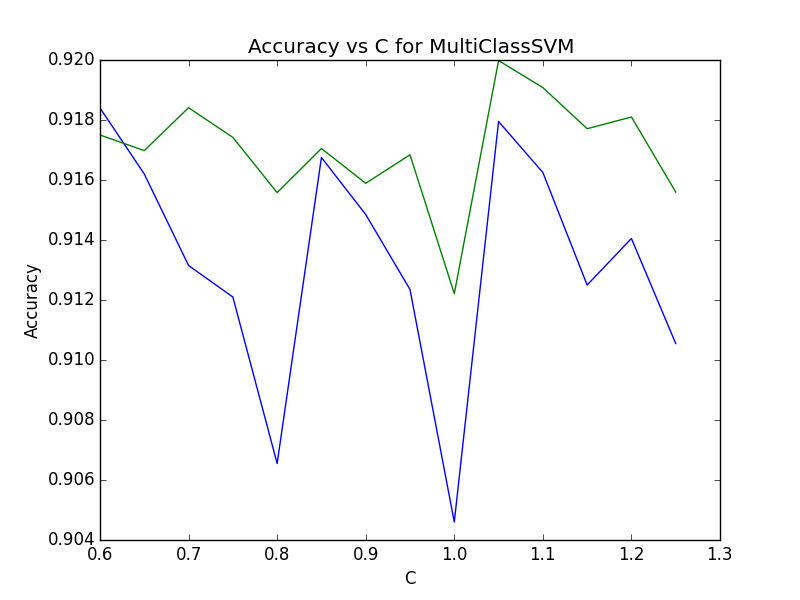
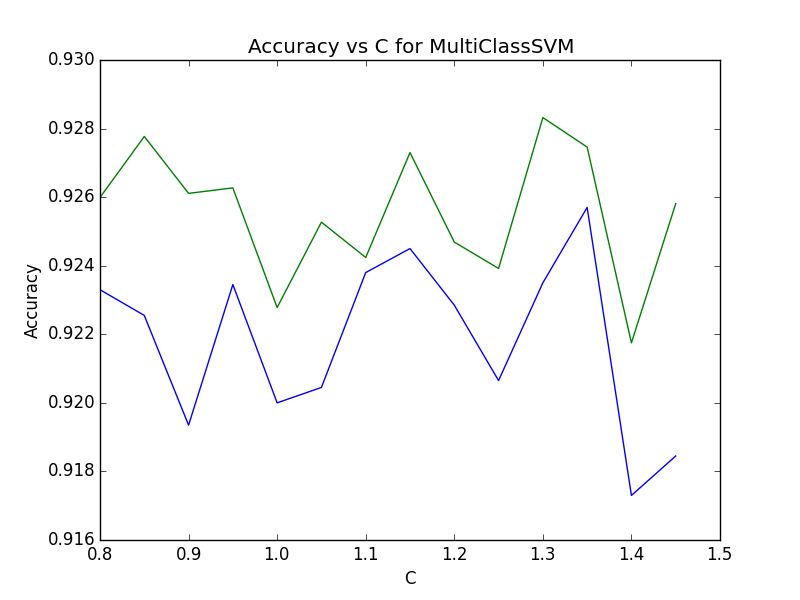
finish q7 graphs

diff --git a/HW3/q7.py b/HW3/q7.py
@@ -12,13 +12,13 @@ import matplotlib.pyplot as plt
 
 # C Grid search params
 C_STEP = 5
-C_HIGH_THR = 130
-C_LOW_THR = 60
+C_HIGH_THR = 150
+C_LOW_THR = 80
 
 # LR Grid search params
 LR_STEP = 10
-LR_HIGH_THR = 200
-LR_LOW_THR = 100
+LR_HIGH_THR = 350
+LR_LOW_THR = 250
 
 # Training params
 NOF_ITERS = 5000
